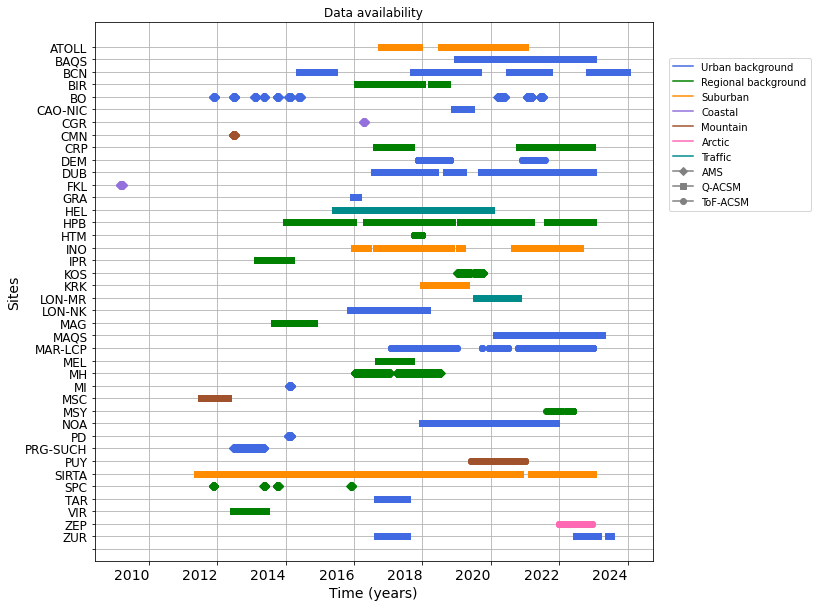
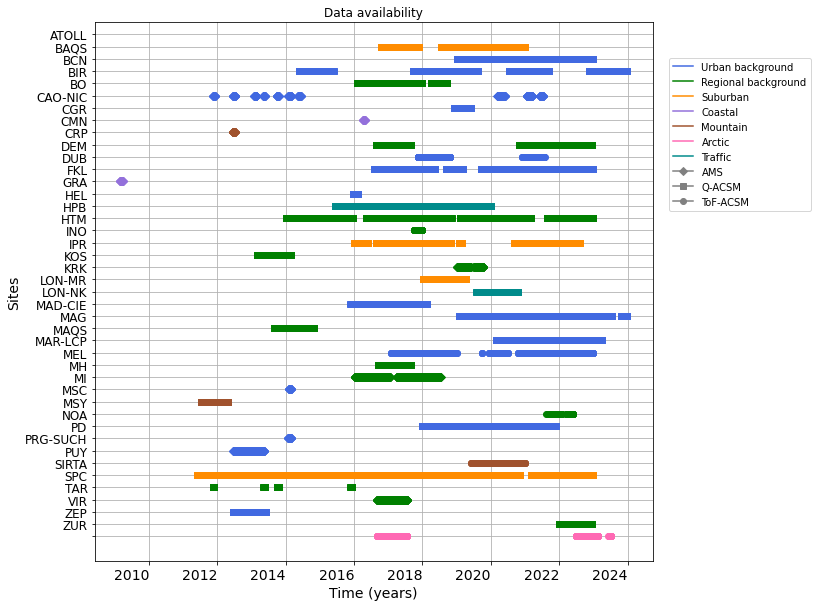
Availability plot nice now

Changed region(s): [[0.0306, 0.0297, 0.7956, 0.8896]]

diff --git a/Data_compilation.py b/Data_compilation.py
@@ -51,7 +51,7 @@ all_files=glob.glob(path_data+'*Composition.txt')
 li_site_names = [j[-29:-25] for j in all_files]
 chem_comp=pd.DataFrame()
 chem_comp['Chemical_composition']=[pd.read_csv(i, sep='\t', na_values='null', keep_default_na=True) for i in all_files]
-li_sites_names = ['ATOLL', 'BAQS', 'BCN', 'BIR', 'BO', 'CAO-NIC', 'CGR', 'CMN', 'CRP', 'DEM', 'DUB', 'FKL','GRA', 'HEL','HPB', 'HTM', 'INO', 'IPR',  'KOS', 'KRK', 'LON-MR', 'LON-NK', 'MAG','MAQS', 'MAR-LCP', 'MEL', 'MH', 'MI', 'MSC', 'MSY', 'NOA', 'PD', 'PRG-SUCH','PUY', 'SIRTA',  'SPC', 'TAR','VIR', 'ZEP', 'ZUR'] 
+li_sites_names = ['ATOLL', 'BAQS', 'BCN', 'BIR', 'BO', 'CAO-NIC', 'CGR', 'CMN', 'CRP', 'DEM', 'DUB', 'FKL','GRA', 'HEL','HPB', 'HTM', 'INO', 'IPR',  'KOS', 'KRK', 'LON-MR', 'LON-NK', 'MAD-CIE', 'MAG','MAQS', 'MAR-LCP', 'MEL', 'MH', 'MI', 'MSC', 'MSY', 'NOA', 'PD', 'PRG-SUCH','PUY', 'SIRTA',  'SPC', 'TAR','VIR', 'ZEP', 'ZUR'] 
 chem_comp.index = li_sites_names
 #%% We import metadatafiles
 os.chdir(path_folder)
@@ -118,6 +118,10 @@ for i in range(0,len(chem_comp)):
 chem_compound.columns=chem_comp.index
 chem_compound_t.columns=['All sites']#metadata['Acronym']
 chem_dt.columns=['All times']
+
+#%% 
+for i in range(0,len(li_site_names)):
+    print(li_site_names[i], li_sites_names[i])
 #%%
 chem_dt['All_times'] = pd.to_datetime(chem_dt['All times'], dayfirst=True, utc=True)
 chem_compound_t['Hour'] = chem_dt['All_times'].dt.hour
@@ -171,9 +175,13 @@ dates.index=dates['date']
 # dates.plot(legend=False)
 
 #%% PLot availability
+metadata.drop(36, axis=0)
 dates_plot=dates.loc[:, dates.columns.str.startswith('datetime')]
 colors=['grey', ]
-li_sites_names = ['ATOLL', 'BAQS', 'BCN', 'BIR', 'BO', 'CAO-NIC', 'CGR', 'CMN', 'CRP', 'DEM', 'DUB', 'FKL','GRA', 'HEL','HPB', 'HTM', 'INO', 'IPR',  'KOS', 'KRK', 'LON-MR', 'LON-NK', 'MAG','MAQS', 'MAR-LCP', 'MEL', 'MH', 'MI', 'MSC', 'MSY', 'NOA', 'PD', 'PRG-SUCH','PUY', 'SIRTA',  'SPC', 'TAR','VIR', 'ZEP', 'ZUR'] 
+li_sites_names = ['ATOLL', 'BAQS', 'BCN', 'BIR', 'BO', 'CAO-NIC', 'CGR', 'CMN', 'CRP', 'DEM', 'DUB', 
+                  'FKL','GRA', 'HEL','HPB', 'HTM', 'INO', 'IPR',  'KOS', 'KRK', 'LON-MR', 'LON-NK', 'MAD-CIE', 
+                  'MAG','MAQS', 'MAR-LCP', 'MEL', 'MH', 'MI', 'MSC', 'MSY', 'NOA', 'PD', 'PRG-SUCH','PUY', 'SIRTA',  
+                  'SPC', 'TAR','VIR', 'ZEP', 'ZUR'] 
 
 # for m, col in zip('xosd', df):
 #     df[col].plot(marker=m)
@@ -182,30 +190,30 @@ li_marker=[]
 li_color=[]
 metadata = metadata.sort_values('Acronym')
 metadata.index =range(0,len(metadata))
-for i in range(0,len(metadata[:-1])):
-    # print(i, metadata['Acronym'][i], dates_plot.columns[i], metadata['Type.1'][i])
+for i in range(0,len(metadata)):
+    print(i, metadata['Acronym'][i])
     if metadata['Type.1'].iloc[i]=='AMS' or metadata['Type.1'].iloc[i]=='Q-AMS' or  metadata['Type.1'].iloc[i]=='c-ToF-AMS' :
         li_marker.append('D')
-    if metadata['Type.1'].iloc[i]=='Q':
+    elif metadata['Type.1'].iloc[i]=='Q':
         li_marker.append('s')
-    if metadata['Type.1'].iloc[i]=='ToF':
+    elif metadata['Type.1'].iloc[i]=='ToF':
         li_marker.append('o')
     #
     if metadata['Type'].iloc[i]=='UB':
         li_color.append('royalblue')
-    if metadata['Type'].iloc[i]=='RB':
+    elif metadata['Type'].iloc[i]=='RB':
         li_color.append('green')
-    if metadata['Type'].iloc[i]=='C':
+    elif metadata['Type'].iloc[i]=='C':
         li_color.append('mediumpurple')
-    if metadata['Type'].iloc[i]=='SU':
+    elif metadata['Type'].iloc[i]=='SU':
         li_color.append('darkorange')
-    if metadata['Type'].iloc[i]=='M':
+    elif metadata['Type'].iloc[i]=='M':
         li_color.append('sienna')
-    if metadata['Type'].iloc[i]=='A':
+    elif metadata['Type'].iloc[i]=='A':
         li_color.append('hotpink')
-    if metadata['Type'].iloc[i]=='TR':
+    elif metadata['Type'].iloc[i]=='TR':
         li_color.append('darkcyan')
-        
+       
 dates_plot=dates_plot.notnull().astype('int')
 dates_plot=dates_plot.replace(0, np.nan)
 
@@ -215,7 +223,8 @@ li_marker.append('s')
 li_sites_names.reverse()
 
 for i in range(0,len(dates_plot.columns)):
-    dates_plot[dates_plot.columns[i]]=dates_plot[dates_plot.columns[i]]*40-(i)
+    # print(dates_plot.columns[i])
+    dates_plot[dates_plot.columns[i]]=dates_plot[dates_plot.columns[i]]*41-(i)
 fig, axs = plt.subplots(figsize=(10, 11))
 for m, col, c in zip(li_marker, dates_plot.columns, li_color):
     dates_plot[col].plot(marker=m, lw=0, legend=False, ax=axs, color=c, grid=True)
@@ -242,7 +251,6 @@ axs.legend(handles=legend_elements, loc = (1.03,0.65))#'upper right')
 plt.title('Data availability')
 fig.savefig('Site_availability.png')
 
-
 #%%
 li_sites_names.reverse()
 # metadata=metadata.drop(35)
@@ -252,7 +260,7 @@ li_sites_types=metadata['Type'].to_list()
 
 sites=pd.DataFrame({'Name': li_sites_names, 'Type': li_sites_types})
 #%%Plots all data for eaqch typeand in black the mean of them
-comp = 'SO4'
+comp = 'Org'
 col_list=[]
 types =['UB', 'RB', 'SU', 'C', 'M', 'A', 'TR']
 
@@ -304,13 +312,7 @@ for i in range(0,len(li_df_types)):
 axs[0].set_ylim(0,15)
 fig.suptitle(comp, fontsize=14)
 
-#%% ??
-fig, axs=plt.subplots(nrows=len(ub.columns), figsize=(2,20))
-for j in range():
-    df=types[j]
-for i in range(0,len(ub.columns)):
-    ub[ub.columns[i]].plot(kind='kde', ax=axs[i], color='grey')
-    axs[i].set_ylabel(li_sites_names[i])
+
 #%%
 fig, axs=plt.subplots( figsize=(5,5))
 ub.median().plot(kind='kde', ax=axs, lw=3, color='royalblue')
@@ -405,3 +407,4 @@ for i in range(0, len(li_nr)):
     df_year[li_sites_names[i]]=b.groupby('Year').count()['dt']
  
 df_year.plot(kind='bar', legend=False)
+#%%
